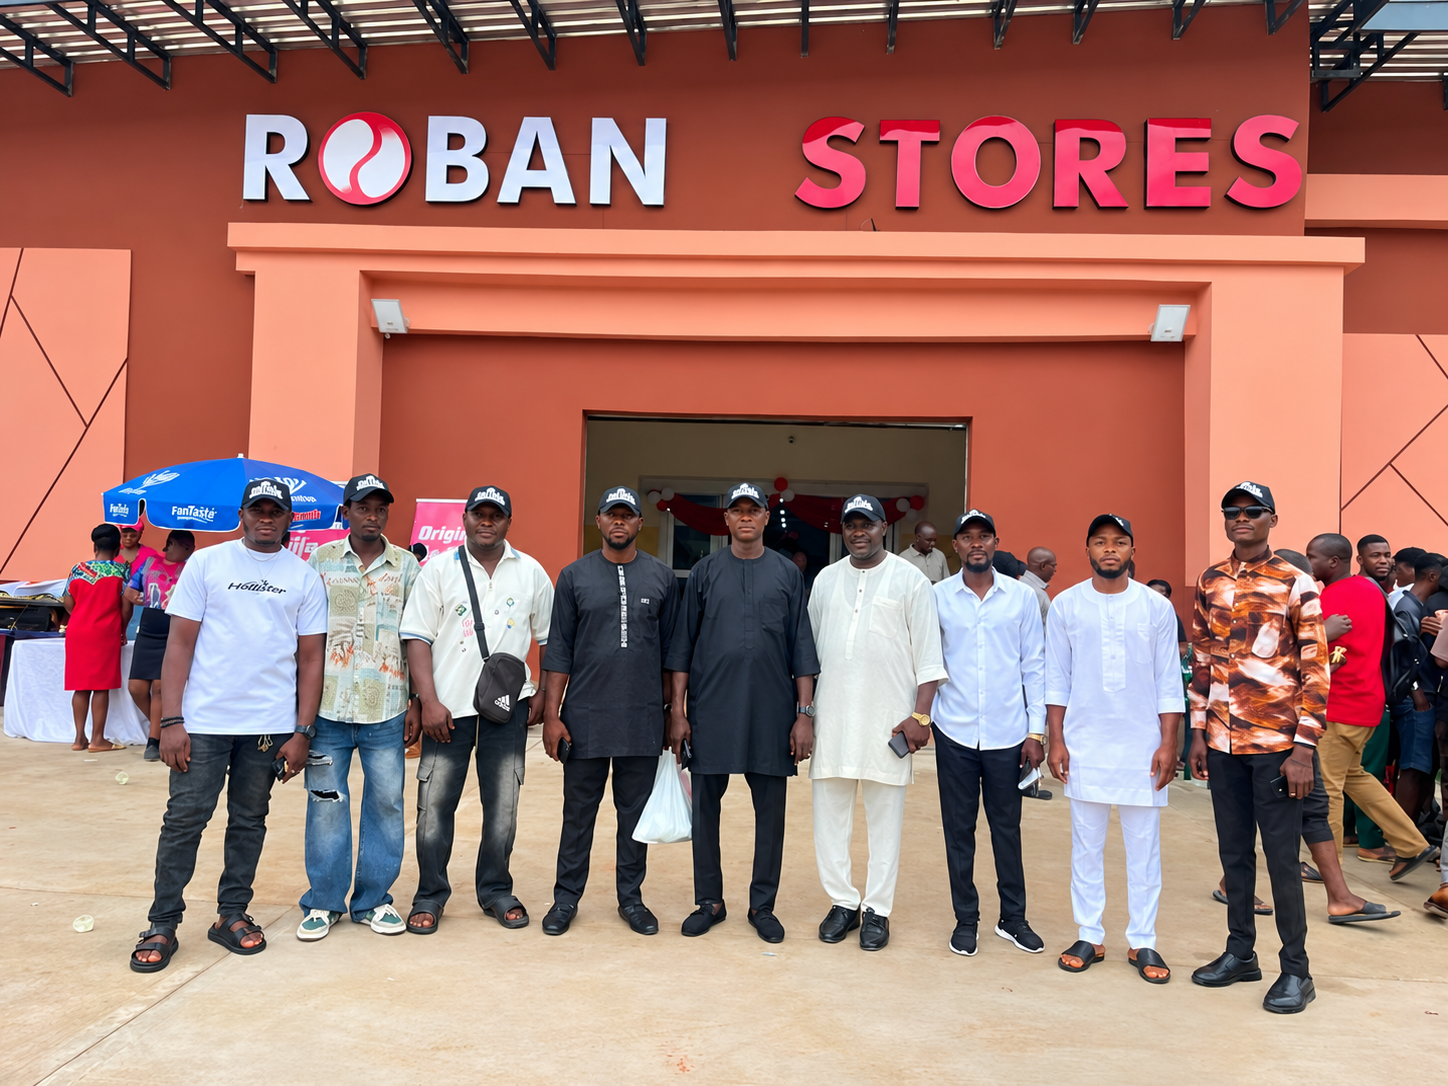
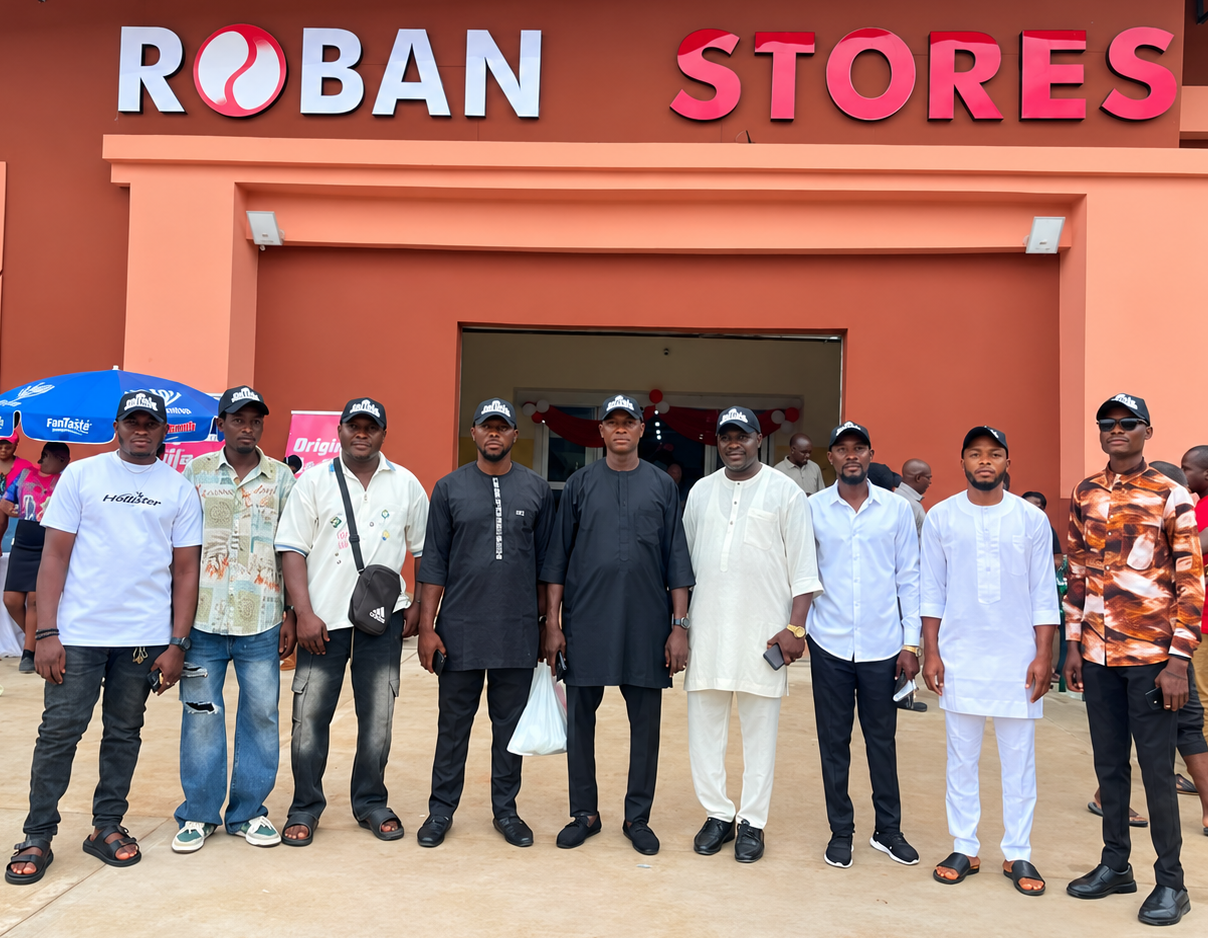
CEO IMAGE ADDITION

diff --git a/about.html b/about.html
@@ -207,7 +207,7 @@
 
                     <div class="about-story-image reveal-left">
 
-                        <img src="assets/images/team/TEAM PHOTO-ONEE.png" alt="Company Team Image">
+                        <img src="assets/images/team/TEAM PHOTO-ONE.png" alt="Company Team Image">
 
                     </div>
 
@@ -488,7 +488,7 @@
 
                     <div class="ceo-image">
 
-                        <img src="assets/images/team/logo.jpeg" alt="Kenechukwu Onuchukwu, Chief Executive Officer">
+                        <img src="assets/images/team/CEO-ONE.png" alt="Kenechukwu Onuchukwu, Chief Executive Officer">
 
                     </div>
 
